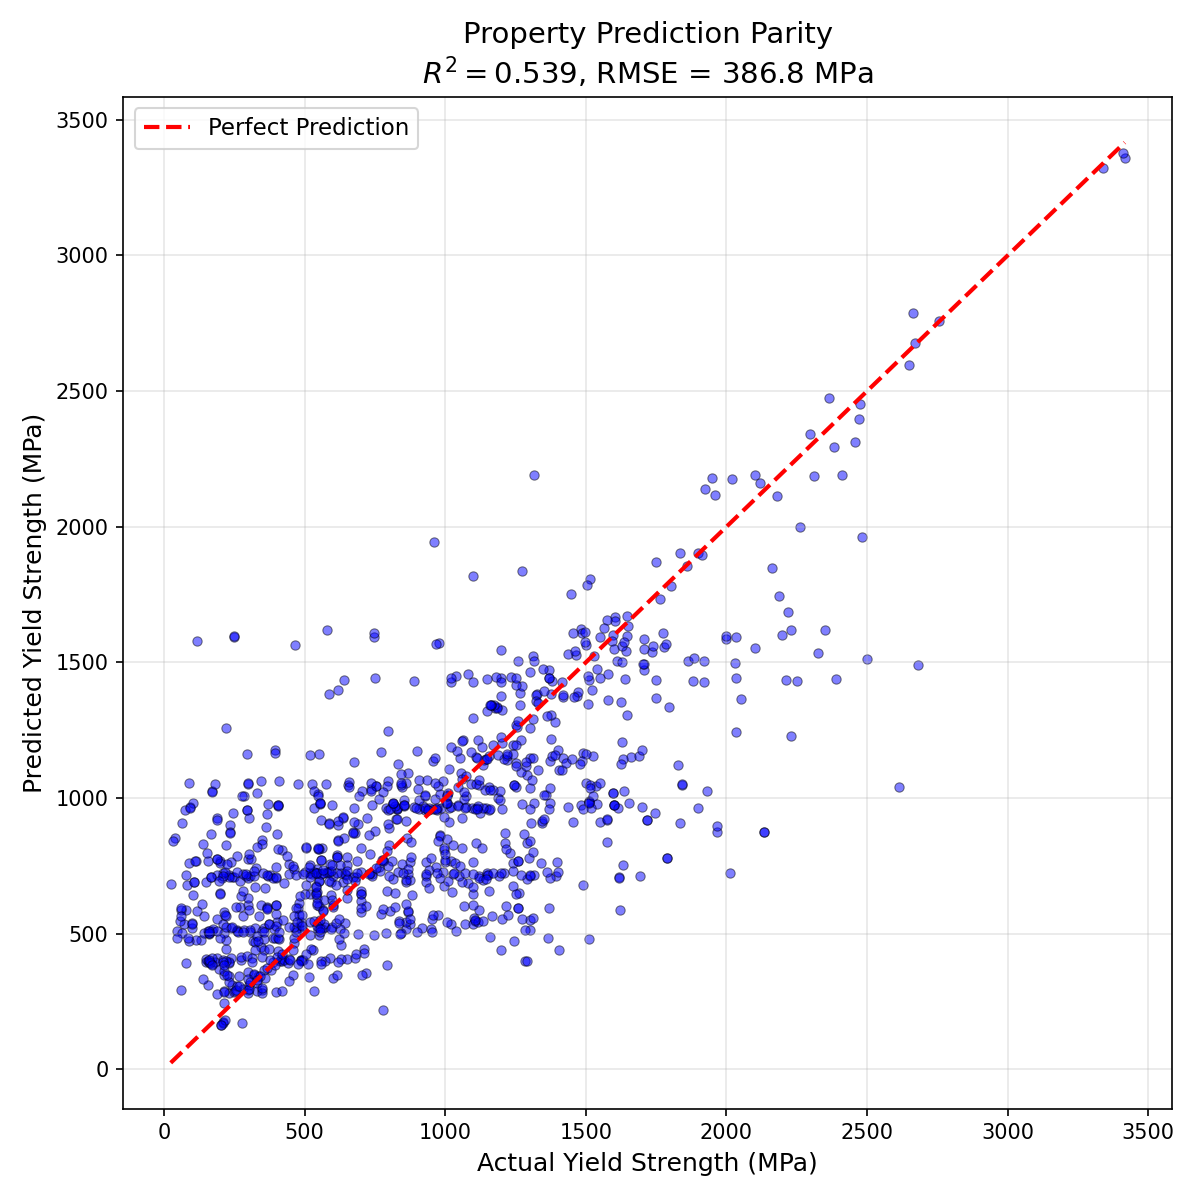
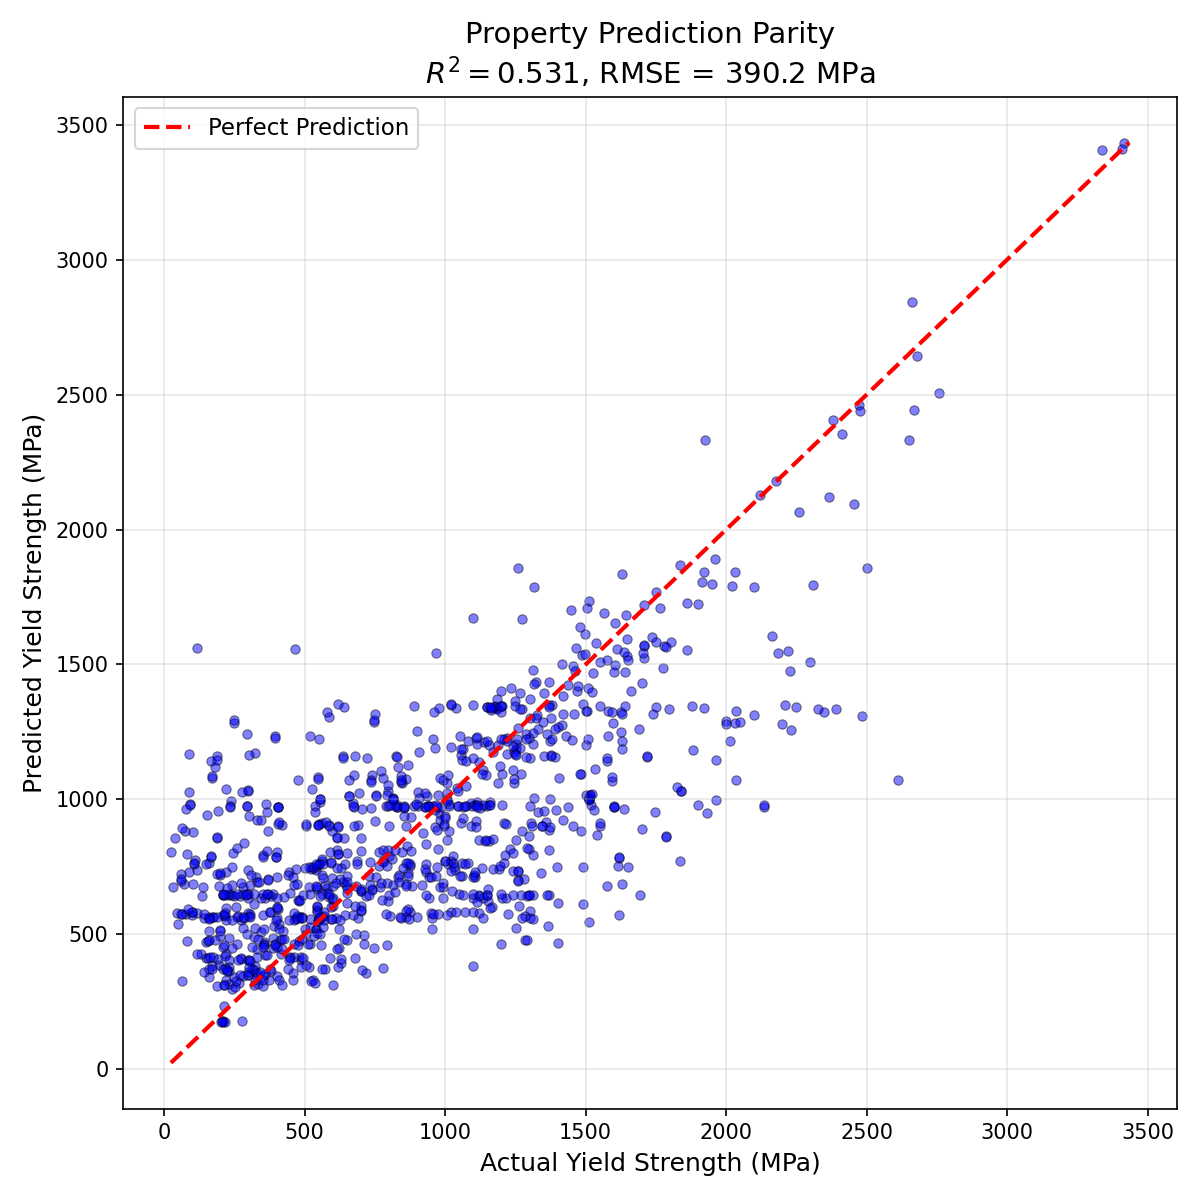
i hate vaes with a passion

diff --git a/run.py b/run.py
@@ -1,0 +1,237 @@
+#!/usr/bin/env python3
+"""
+Complete pipeline script for HEA VAE: Preprocess → Train → Evaluate
+
+This script runs the full pipeline:
+1. Preprocess dataset (add physics descriptors)
+2. Train the VAE model
+3. Evaluate the trained model
+
+Usage:
+    python run_pipeline.py [--epochs EPOCHS] [--alpha ALPHA] [--lr LR] [--log] [--early-stopping] [--skip-preprocess] [--skip-train] [--skip-eval]
+"""
+
+import argparse
+import subprocess
+import sys
+import os
+from pathlib import Path
+
+
+def run_preprocess():
+    """Run data preprocessing to add physics descriptors."""
+    print("=" * 60)
+    print("STEP 1: Preprocessing Dataset")
+    print("=" * 60)
+    
+    try:
+        result = subprocess.run(
+            [sys.executable, "data/preprocess.py"],
+            check=True,
+            capture_output=True,
+            text=True
+        )
+        print(result.stdout)
+        if result.stderr:
+            print("Warnings:", result.stderr)
+        print("✓ Preprocessing completed successfully")
+        return True
+    except subprocess.CalledProcessError as e:
+        print(f"✗ Preprocessing failed:")
+        print(e.stdout)
+        print(e.stderr)
+        return False
+    except FileNotFoundError:
+        print("✗ Error: data/preprocess.py not found")
+        return False
+
+
+def run_train(epochs, alpha, lr, log, early_stopping):
+    """Run model training."""
+    print("\n" + "=" * 60)
+    print("STEP 2: Training Model")
+    print("=" * 60)
+    
+    # Check if cleaned dataset exists
+    if not os.path.exists("data/MPEA_cleaned.csv"):
+        print("✗ Error: data/MPEA_cleaned.csv not found")
+        print("  Run preprocessing first or use --skip-preprocess to skip it")
+        return False
+    
+    cmd = [
+        sys.executable, "train.py",
+        "--epochs", str(epochs),
+        "--alpha", str(alpha),
+        "--lr", str(lr)
+    ]
+    
+    if log:
+        cmd.append("--log")
+    
+    if early_stopping:
+        cmd.append("--early-stopping")
+    
+    try:
+        result = subprocess.run(
+            cmd,
+            check=True,
+            capture_output=False,  # Show output in real-time
+            text=True
+        )
+        print("\n✓ Training completed successfully")
+        return True
+    except subprocess.CalledProcessError as e:
+        print(f"\n✗ Training failed with exit code {e.returncode}")
+        return False
+    except KeyboardInterrupt:
+        print("\n✗ Training interrupted by user")
+        return False
+
+
+def run_evaluate(model_path="models/hea_vae_best.npz"):
+    """Run model evaluation."""
+    print("\n" + "=" * 60)
+    print("STEP 3: Evaluating Model")
+    print("=" * 60)
+    
+    # Check if model exists
+    if not os.path.exists(model_path):
+        print(f"✗ Error: Model file not found: {model_path}")
+        print("  Train the model first or use --skip-train to skip training")
+        return False
+    
+    cmd = [
+        sys.executable, "utils/evaluate.py",
+        "--model", model_path
+    ]
+    
+    try:
+        result = subprocess.run(
+            cmd,
+            check=True,
+            capture_output=False,  # Show output in real-time
+            text=True
+        )
+        print("\n✓ Evaluation completed successfully")
+        return True
+    except subprocess.CalledProcessError as e:
+        print(f"\n✗ Evaluation failed with exit code {e.returncode}")
+        return False
+    except KeyboardInterrupt:
+        print("\n✗ Evaluation interrupted by user")
+        return False
+
+
+def main():
+    parser = argparse.ArgumentParser(
+        description="Run complete HEA VAE pipeline: Preprocess → Train → Evaluate",
+        formatter_class=argparse.RawDescriptionHelpFormatter,
+        epilog="""
+Examples:
+  # Run full pipeline with defaults
+  python run_pipeline.py
+
+  # Run with custom parameters
+  python run_pipeline.py --epochs 200 --alpha 30 --lr 1e-4
+
+  # Skip preprocessing (use existing cleaned dataset)
+  python run_pipeline.py --skip-preprocess
+
+  # Only evaluate existing model
+  python run_pipeline.py --skip-preprocess --skip-train
+        """
+    )
+    
+    # Training parameters
+    parser.add_argument('--epochs', type=int, default=100,
+                        help='Number of training epochs (default: 100)')
+    parser.add_argument('--alpha', type=float, default=25.0,
+                        help='Weight for property loss (default: 25.0)')
+    parser.add_argument('--lr', type=float, default=1e-3,
+                        help='Learning rate (default: 1e-3)')
+    parser.add_argument('--log', action='store_true', default=False,
+                        help='Enable logging to file (default: False)')
+    parser.add_argument('--early-stopping', action='store_true', default=False,
+                        help='Enable early stopping (default: False, disabled)')
+    
+    # Skip options
+    parser.add_argument('--skip-preprocess', action='store_true', default=False,
+                        help='Skip preprocessing step (default: False)')
+    parser.add_argument('--skip-train', action='store_true', default=False,
+                        help='Skip training step (default: False)')
+    parser.add_argument('--skip-eval', action='store_true', default=False,
+                        help='Skip evaluation step (default: False)')
+    
+    # Model path for evaluation
+    parser.add_argument('--model', type=str, default='models/hea_vae_best.npz',
+                        help='Path to model for evaluation (default: models/hea_vae_best.npz)')
+    
+    args = parser.parse_args()
+    
+    # Print configuration
+    print("=" * 60)
+    print("HEA VAE Complete Pipeline")
+    print("=" * 60)
+    print(f"Configuration:")
+    print(f"  Epochs: {args.epochs}")
+    print(f"  Alpha: {args.alpha}")
+    print(f"  Learning Rate: {args.lr}")
+    print(f"  Logging: {'Enabled' if args.log else 'Disabled'}")
+    print(f"  Early Stopping: {'Enabled' if args.early_stopping else 'Disabled'}")
+    print(f"  Skip Preprocess: {args.skip_preprocess}")
+    print(f"  Skip Train: {args.skip_train}")
+    print(f"  Skip Eval: {args.skip_eval}")
+    print("=" * 60)
+    print()
+    
+    success = True
+    
+    # Step 1: Preprocessing
+    if not args.skip_preprocess:
+        if not run_preprocess():
+            success = False
+            print("\n✗ Pipeline failed at preprocessing step")
+            sys.exit(1)
+    else:
+        print("Skipping preprocessing step...")
+    
+    # Step 2: Training
+    if not args.skip_train:
+        if not run_train(args.epochs, args.alpha, args.lr, args.log, args.early_stopping):
+            success = False
+            print("\n✗ Pipeline failed at training step")
+            sys.exit(1)
+    else:
+        print("Skipping training step...")
+    
+    # Step 3: Evaluation
+    if not args.skip_eval:
+        if not run_evaluate(args.model):
+            success = False
+            print("\n✗ Pipeline failed at evaluation step")
+            sys.exit(1)
+    else:
+        print("Skipping evaluation step...")
+    
+    # Final summary
+    print("\n" + "=" * 60)
+    if success:
+        print("✓ PIPELINE COMPLETED SUCCESSFULLY")
+        print("=" * 60)
+        print("\nOutput files:")
+        if not args.skip_preprocess:
+            print("  - data/MPEA_cleaned.csv (preprocessed dataset)")
+        if not args.skip_train:
+            print(f"  - {args.model} (trained model)")
+        if not args.skip_eval:
+            print("  - figures/eval_property_parity.png (evaluation plot)")
+            print("  - figures/eval_latent_space.png (latent space visualization)")
+    else:
+        print("✗ PIPELINE FAILED")
+        print("=" * 60)
+        sys.exit(1)
+
+
+if __name__ == "__main__":
+    main()
+

diff --git a/train.py b/train.py
@@ -1,7 +1,7 @@
 #!/usr/bin/env python3
 """
 Training script for HEA VAE model.
-Usage: python train.py [--epochs EPOCHS] [--alpha ALPHA] [--lr LR] [--log] [--no-early-stopping]
+Usage: python train.py [--epochs EPOCHS] [--alpha ALPHA] [--lr LR] [--log] [--early-stopping]
 """
 
 import argparse
@@ -22,23 +22,23 @@ def main():
                         help='Learning rate (default: 1e-3)')
     parser.add_argument('--log', action='store_true', default=False,
                         help='Enable logging to file (default: False, logging disabled)')
-    parser.add_argument('--no-early-stopping', action='store_true', default=False,
-                        help='Disable early stopping (default: False, early stopping enabled)')
+    parser.add_argument('--early-stopping', action='store_true', default=False,
+                        help='Enable early stopping (default: False, early stopping disabled)')
     
     args = parser.parse_args()
     
     # Fixed/default values for other parameters
     batch_size = 100
-    beta = 0.01  # Final beta value after annealing (increased from 0.005 for better regularization)
+    beta = 1.0  # Final beta value after annealing
     csv_path = 'data/MPEA_cleaned.csv'
     val_split = 0.2
-    # Set early stopping patience to a very large number if disabled
-    early_stopping_patience = float('inf') if args.no_early_stopping else 10
+    # Early stopping is DISABLED by default - only enable if --early-stopping flag is set
+    early_stopping_patience = 10 if args.early_stopping else float('inf')
     early_stopping_min_delta = 0.0
     # Revised beta annealing schedule:
     # - Cosine schedule (smooth S-curve) instead of linear
     # - 40 epochs (reduced from 50 for faster convergence)
-    # - Starts at 0.0, reaches 0.01 (increased from 0.005 for better latent space regularization)
+    # - Starts at 0.0, reaches 1.0 (standard VAE beta value)
     kl_annealing_epochs = 40
     kl_annealing_start = 0.0  # Beta starts at 0 and increases to target via cosine schedule
     
@@ -59,10 +59,10 @@ def main():
     print(f"Epochs: {args.epochs}")
     print(f"Alpha (property loss weight): {args.alpha}")
     print(f"Learning Rate: {args.lr}")
-    if args.no_early_stopping:
-        print("Early Stopping: Disabled")
-    else:
+    if args.early_stopping:
         print(f"Early Stopping: Enabled (patience: {early_stopping_patience})")
+    else:
+        print("Early Stopping: Disabled (default)")
     if log_file:
         print(f"Log File: {log_file}")
     else:
@@ -85,11 +85,11 @@ def main():
             f.write(f"Data Path: {csv_path}\n")
             f.write(f"Validation Split: {val_split}\n")
             if val_split > 0:
-                if args.no_early_stopping:
-                    f.write(f"Early Stopping: Disabled\n")
-                else:
-                    f.write(f"Early Stopping Patience: {early_stopping_patience}\n")
+                if args.early_stopping:
+                    f.write(f"Early Stopping: Enabled (patience: {early_stopping_patience})\n")
                     f.write(f"Early Stopping Min Delta: {early_stopping_min_delta}\n")
+                else:
+                    f.write(f"Early Stopping: Disabled (default)\n")
             if kl_annealing_epochs > 0:
                 f.write(f"KL Annealing: {kl_annealing_start:.4f} -> {beta:.4f} over {kl_annealing_epochs} epochs\n")
             f.write("=" * 60 + "\n\n")

diff --git a/data/preprocess.py b/data/preprocess.py
@@ -20,24 +20,15 @@ from pathlib import Path
 # Element: (Atomic Radius (pm), VEC, Electronegativity, Melting Point (K))
 # Data source: Mendeleev / WebElements
 ELEMENT_PROPERTIES = {
-    'Al': (143, 3, 1.61, 933),
-    'Co': (125, 9, 1.88, 1768),
-    'Cr': (128, 6, 1.66, 2180),
-    'Fe': (126, 8, 1.83, 1811),
-    'Ni': (124, 10, 1.91, 1728),
-    'Cu': (128, 11, 1.90, 1357),
-    'Mn': (127, 7, 1.55, 1519),
-    'Ti': (147, 4, 1.54, 1941),
-    'V':  (134, 5, 1.63, 2183),
-    'Nb': (146, 5, 1.60, 2750),
-    'Mo': (139, 6, 2.16, 2896),
-    'Zr': (160, 4, 1.33, 2128),
-    'Hf': (159, 4, 1.30, 2506),
-    'Ta': (146, 5, 1.50, 3290),
-    'W':  (139, 6, 2.36, 3695),
-    'C':  (77,  4, 2.55, 3823),
-    'B':  (82,  3, 2.04, 2349),
-    'Si': (111, 4, 1.90, 1687)
+    'Al': (143, 3, 1.61, 933),  'Co': (125, 9, 1.88, 1768),
+    'Cr': (128, 6, 1.66, 2180), 'Fe': (126, 8, 1.83, 1811),
+    'Ni': (124, 10, 1.91, 1728),'Cu': (128, 11, 1.90, 1357),
+    'Mn': (127, 7, 1.55, 1519), 'Ti': (147, 4, 1.54, 1941),
+    'V':  (134, 5, 1.63, 2183), 'Nb': (146, 5, 1.60, 2750),
+    'Mo': (139, 6, 2.16, 2896), 'Zr': (160, 4, 1.33, 2128),
+    'Hf': (159, 4, 1.30, 2506), 'Ta': (146, 5, 1.50, 3290),
+    'W':  (139, 6, 2.36, 3695), 'C':  (77,  4, 2.55, 3823),
+    'B':  (82,  3, 2.04, 2349), 'Si': (111, 4, 1.90, 1687)
 }
 
 

diff --git a/models/trainer.py b/models/trainer.py
@@ -11,7 +11,7 @@ from utils.loss_funcs import property_guided_loss
 from mlx.optimizers import AdamW
 
 class Trainer():
-    def __init__(self, model=None, opt=None, alpha: float=25.0, beta: float=0.005):
+    def __init__(self, model=None, opt=None, alpha: float=25.0, beta: float=1.0):
         self.model = HEA_VAE() if model is None else model
         self.opt = AdamW(learning_rate=1e-4) if opt is None else opt
         self.alpha = alpha
